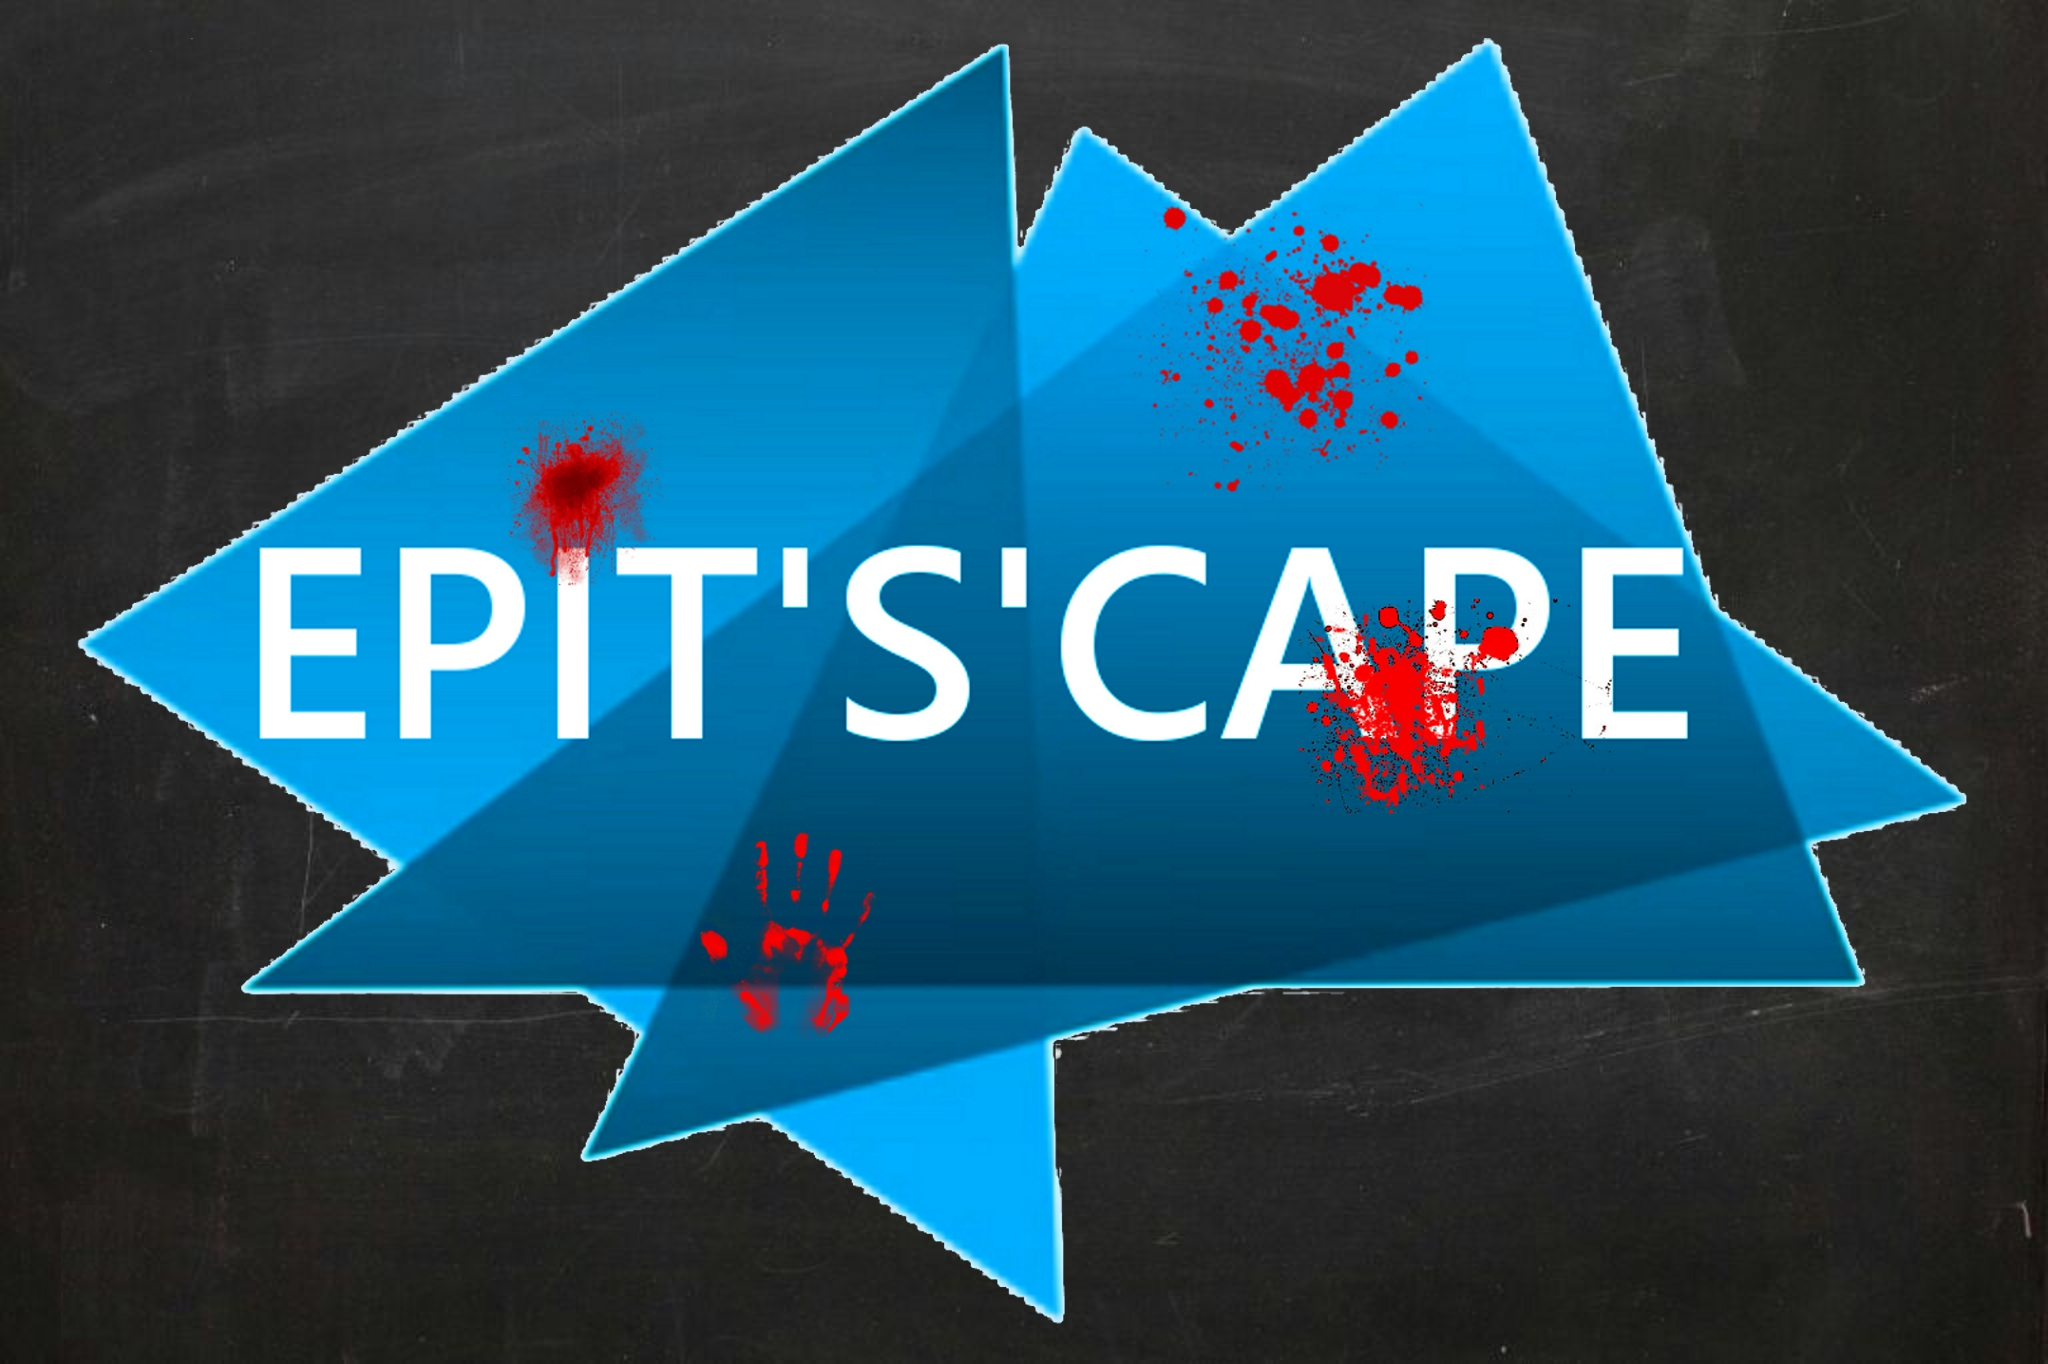
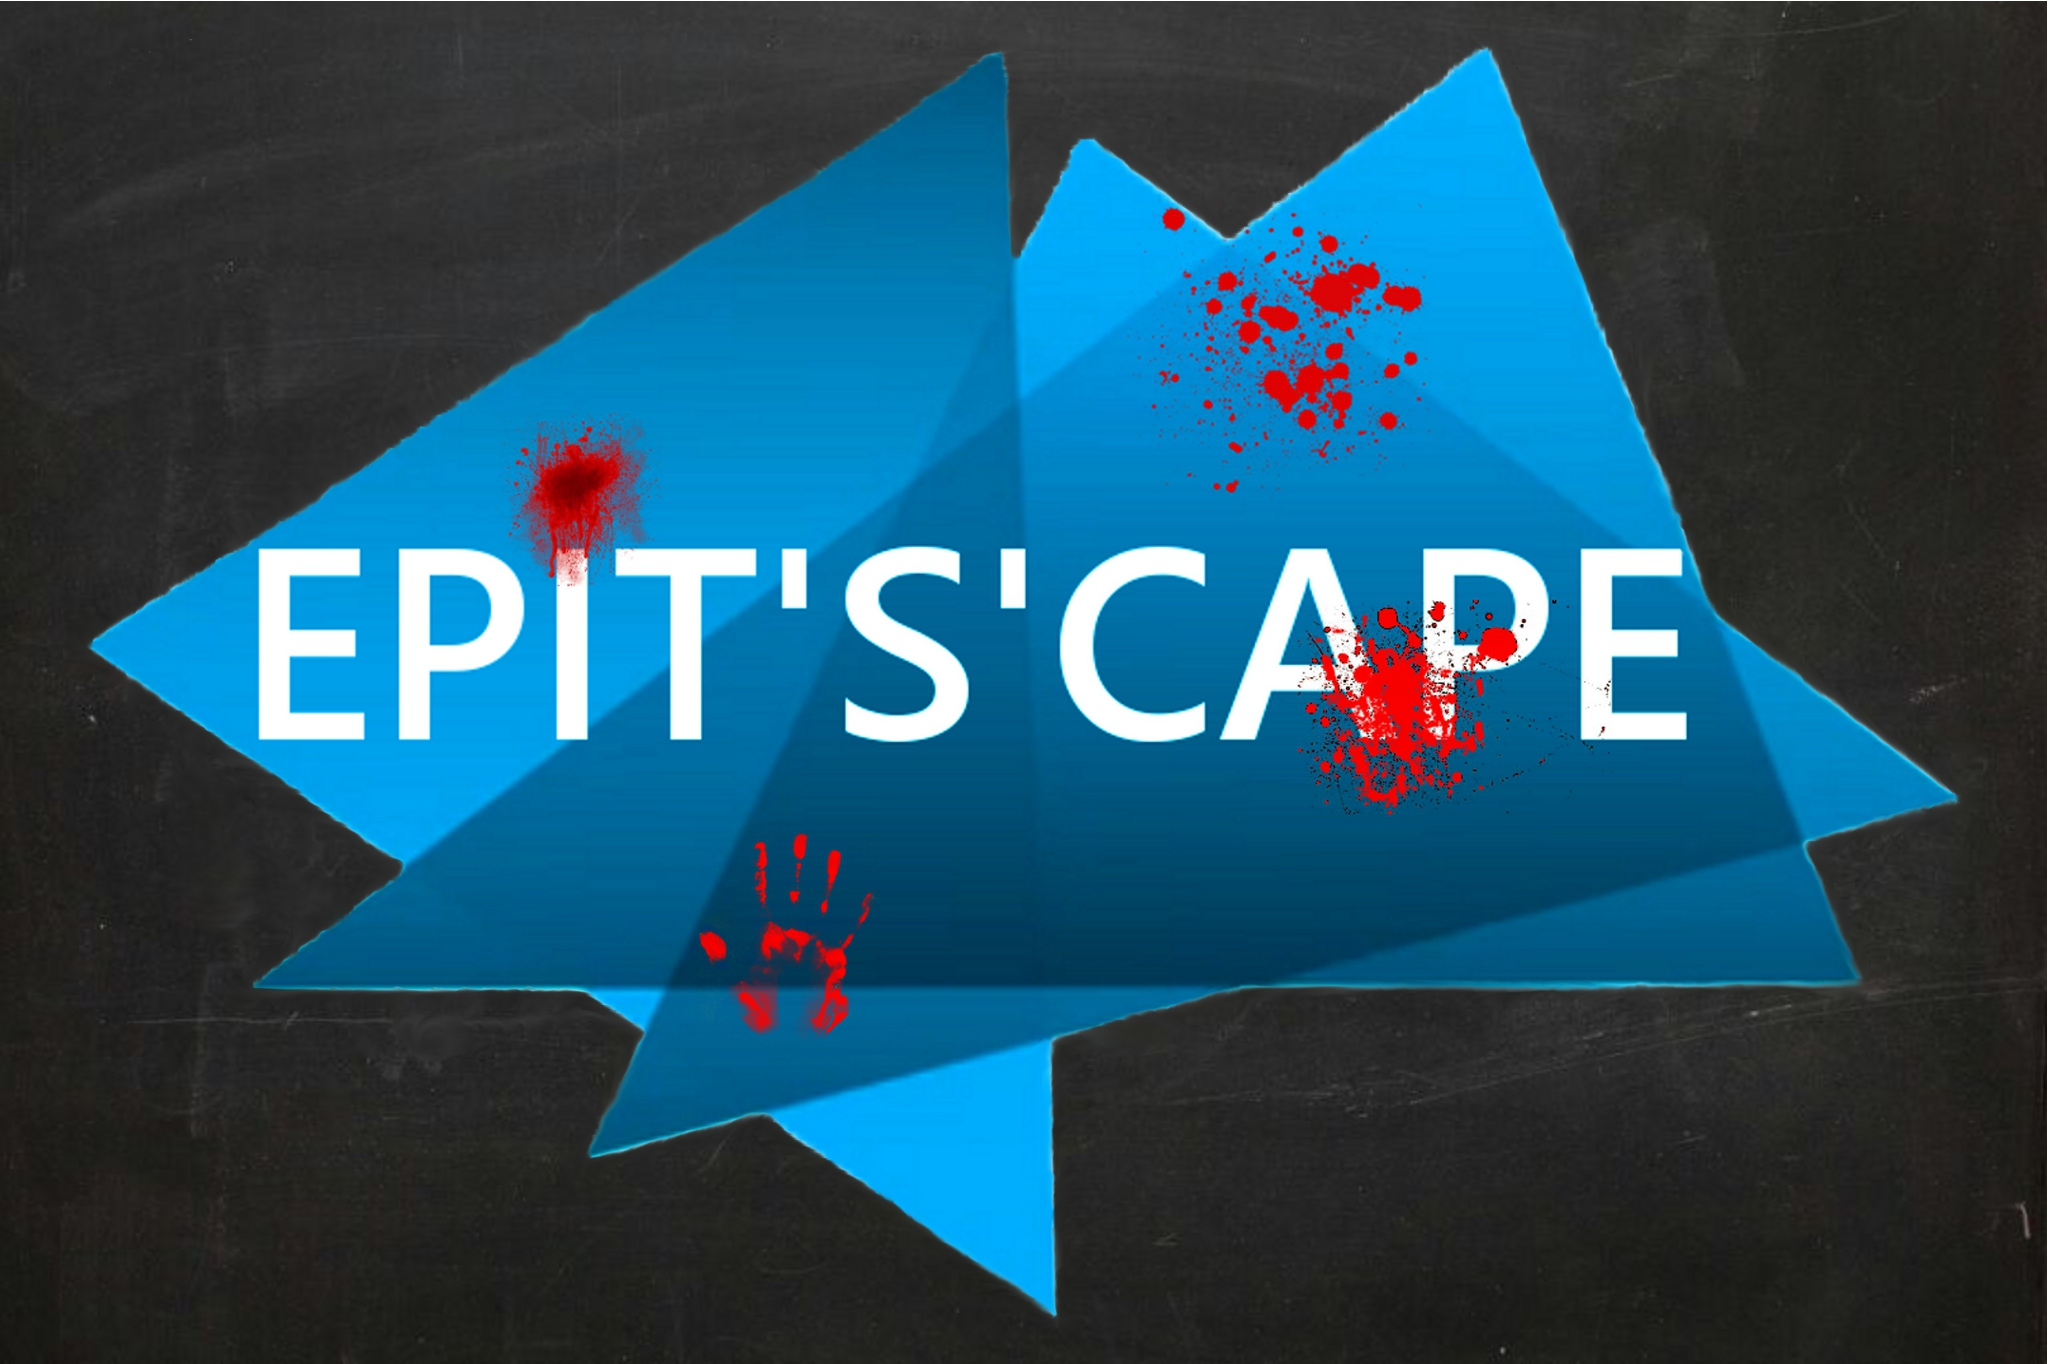
Change site

diff --git a/Site/CSS/Style.css b/Site/CSS/Style.css
@@ -61,10 +61,10 @@ background-color : black;
 
 #centre{
 background: center center no-repeat url("../Images/Accueil.jpg");
-background-size: 970px 440px;
+background-size: 1000px 600px;
 display : block;
-height : 440px;
-width : 970px;
+height : 600px;
+width : 1000px;
 
 border-style: ridge;
 border-width: 6px;
